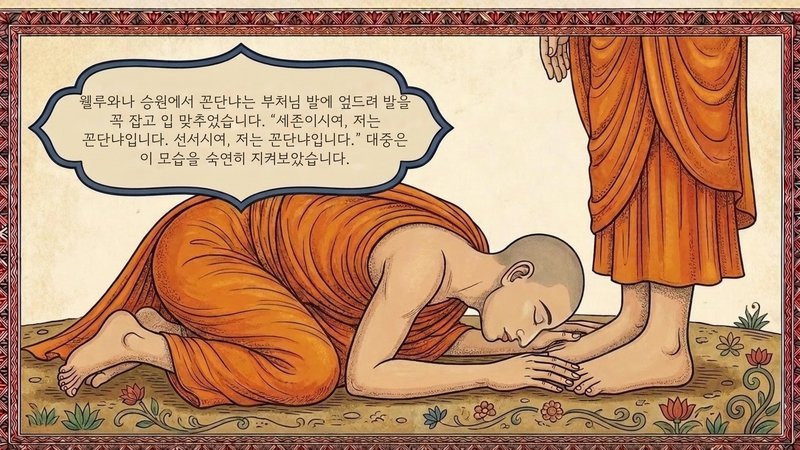
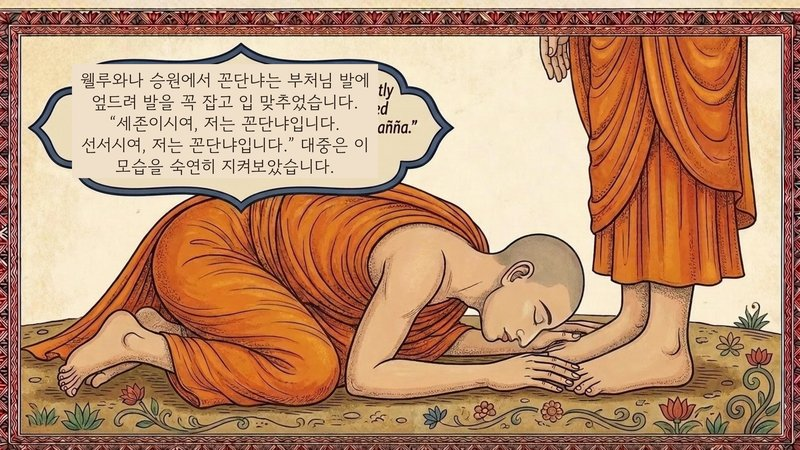
검수용 한글 그림 [skip ci]

Changed region(s): [[0.0938, 0.1244, 0.5312, 0.4044]]

diff --git a/qa.md b/qa.md
@@ -1,13 +1,8 @@
 # 자동 검수 결과
 
-이번에 만든 그림 중 문제 의심 9곳
+이번에 만든 그림 중 문제 의심 4곳
 
-- Foremost-Monks/01-Kondanna 33번 그림, 상자 1 [삐져나옴] 글이 말풍선·상자 가장자리에 닿거나 밖으로 나감 (여백 0px)
 - Foremost-Monks/04-Maha-Kassapa 36번 그림, 상자 1 [자리] 한글 글(1989,772)이 상자 점(1795,357)에서 멀리 그려짐
-- Foremost-Monks/04-Maha-Kassapa 41번 그림, 상자 1 [삐져나옴] 글이 말풍선·상자 가장자리에 닿거나 밖으로 나감 (여백 0px)
 - Foremost-Monks/05-Anuruddha 21번 그림, 상자 1 [삐져나옴] 글이 말풍선·상자 가장자리에 닿거나 밖으로 나감 (여백 0px)
 - Foremost-Monks/05-Anuruddha 50번 그림, 상자 1 [삐져나옴] 글이 말풍선·상자 가장자리에 닿거나 밖으로 나감 (여백 1px)
-- Foremost-Monks/20-21-Rahula-Ratthapala 26번 그림, 상자 1 [삐져나옴] 글이 말풍선·상자 가장자리에 닿거나 밖으로 나감 (여백 0px)
-- Foremost-Monks/33-Bakula 10번 그림, 상자 1 [자리] 한글 글(1323,491)이 상자 점(1071,158)에서 멀리 그려짐
 - Foremost-Monks/33-Bakula 16번 그림, 상자 1 [삐져나옴] 글이 말풍선·상자 가장자리에 닿거나 밖으로 나감 (여백 0px)
-- Foremost-Monks/41-Mogharaja 48번 그림, 상자 1 [삐져나옴] 글이 말풍선·상자 가장자리에 닿거나 밖으로 나감 (여백 2px)
